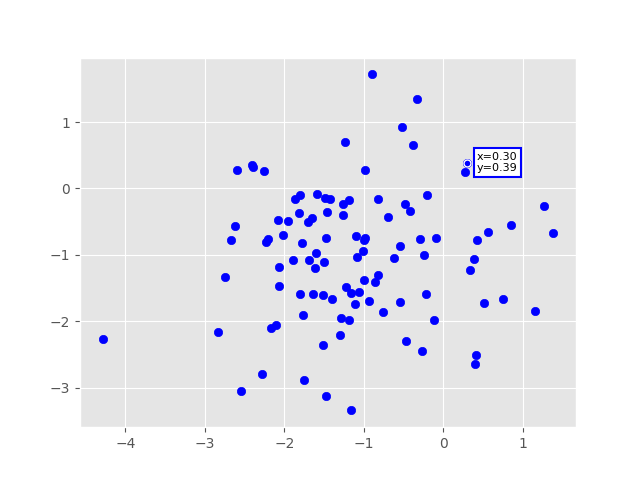
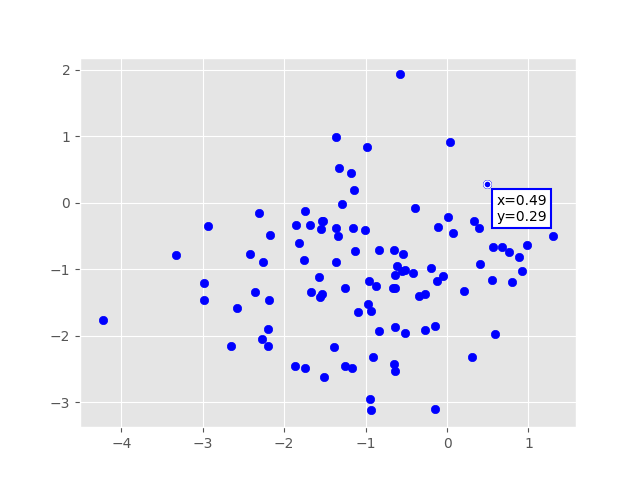
fixed bug with style settings being overwritten. cleaned up readme and examples

diff --git a/mpl_markers/markers.py b/mpl_markers/markers.py
@@ -8,6 +8,7 @@ from matplotlib.collections import QuadMesh, PathCollection
 import itertools
 import json
 from pathlib import Path
+from copy import deepcopy
 
 from . import artists, interactive, utils
 
@@ -17,6 +18,7 @@ __all__ = (
     "axis_marker",
     "scatter_marker",
     "set_style",
+    "set_style_json",
     "clear",
     "remove",
     "disable_lines",
@@ -27,7 +29,7 @@ __all__ = (
     "init_axes",
 )
 
-_global_style_file = Path(__file__).parent / "style/default.json"
+_global_style = dict()
 
 
 def line_marker(
@@ -454,7 +456,7 @@ def scatter_marker(
     return m
 
 
-def set_style(path: Path):
+def set_style_json(path: Path):
     """
     Sets the style globally on all future markers.
 
@@ -463,9 +465,33 @@ def set_style(path: Path):
     path: Path
         path to a .json file that matches the structure of "style/default.json"
     """
-    global _global_style_file
-    _global_style_file = Path(path)
 
+    with open(path) as f:
+        set_style(**json.load(f))
+
+
+def set_style(**properties):
+    """
+    Sets the style globally on all future markers.
+
+    Parameters:
+    -----------
+    ** properties
+        any or all key value pairs found in "style/default.json"
+    """
+    global _global_style
+
+    # start with the default style
+    default_style_path = Path(__file__).parent / "style/default.json"
+    with open(default_style_path) as f:
+        _global_style = json.load(f)
+
+    # overwrite the defaults with the provided properties
+    for k in _global_style.keys():
+        # each property is a dictionary, leave the default prop intact and only overwrite the provided keys
+        if k in properties.keys():
+            for pk in properties[k].keys():
+                _global_style[k][pk] = deepcopy(properties[k][pk])
 
 def clear(axes: plt.Axes = None):
     """
@@ -817,43 +843,18 @@ def init_canvas(fig: plt.Figure, event=None):
 
 def init_axes(
     axes: plt.Axes,
-    style_path: Path = None,
     xformatter: Callable = None,
     yformatter: Callable = None,
-    xline: dict = None,
-    yline: dict = None,
-    datadot: dict = None,
-    axisdot: dict = None,
-    xlabel: dict = None,
-    ylabel: dict = None,
     handler: Callable[[np.ndarray, np.ndarray, Optional[dict]], None] = None,
+    ** properties
 ) -> plt.Axes:
     """
-    Compiles a list of axes lines that will accept marker y-labels and validates the x-axis data of each.
+    Initializes the axes to accept marker objects
 
     Parameters
     ----------
     axes: mpl.Axes
         matplotlib axes object
-    style_path: Path
-        path to a .json file that matches the structure of "style/default.json". Style is
-        applied to markers on this axes only.
-    xline: bool OR dictionary = True
-        shows a vertical line at the x value of the marker. If dictionary, parameters are passed
-        into Line2D.
-    yline: bool OR dictionary = False
-        shows a horizontal line at the y value of the marker. If dictionary, parameters are passed
-        into Line2D.
-    datadot: bool OR dictionary = True
-        shows a dot at the data point of the marker. If dictionary, parameters are passed into Line2D
-    axisdot: bool OR dictionary = True
-        shows a dot at the location of axis markers. If dictionary, parameters are passed into Line2D
-    xlabel: bool OR dictionary = False
-        shows a text box of the x value of the marker at the bottom of the axes. If dictionary, parameters are passed
-        into axes.text()
-    ylabel: bool OR dictionary = True
-        shows a text box of the y value of the marker at the data point location. If dictionary, parameters are passed
-        into axes.text()
     yformatter: Callable = None
         function that returns a string to be placed in the data label given a x and y data coordinate
             def yformatter(x: float, y:float, idx:int) -> str
@@ -866,25 +867,26 @@ def init_axes(
 
         The xd and yd parameter are arrays of x-axis/y-axis data values of each line on the active marker.
         kwargs are the same as the optional kwargs passed into add_handler.
+    ** properties
+        any or all key value pairs found in style/default.json
+
     """
     axes._marker_axes = axes
     axes._secondary_axes = []
 
-    # load the default style sheet
-    if not hasattr(axes, "_marker_style"):
-        # read default style
-        style_path = _global_style_file if style_path is None else style_path
-        with open(style_path) as f:
-            axes._marker_style = json.load(f)
-
     # update the marker styles with the user provided properties
-    for k, prop in zip(
-        ["xline", "yline", "xlabel", "ylabel", "datadot", "axisdot"],
-        [xline, yline, xlabel, ylabel, datadot, axisdot],
-    ):
-        if prop:
-            for n, v in prop.items():
-                axes._marker_style[k][n] = v
+    if not len(_global_style):
+        set_style()
+
+    if not hasattr(axes, "_marker_style"):
+        axes._marker_style = deepcopy(_global_style)
+    
+    # overwrite the defaults with the provided properties
+    for k in _global_style.keys():
+        # each property is a dictionary, leave the default prop intact and only overwrite the provided keys
+        if k in properties.keys():
+            for pk in properties[k].keys():
+                axes._marker_style[k][pk] = deepcopy(properties[k][pk])
 
     if not hasattr(axes, "_marker_ignorelines"):
         axes._marker_ignorelines = []
@@ -924,6 +926,7 @@ def init_axes(
 
     # do not modify the axes if called on a secondary axes, initialize primary axes instead
     axes = axes._marker_axes
+
     # compile list of all lines in this axes and any axes that share the same canvas
     lines_unfiltered = list(axes.lines) + list(
         itertools.chain.from_iterable([ax.lines for ax in axes._secondary_axes])

diff --git a/mpl_markers/utils.py b/mpl_markers/utils.py
@@ -2,6 +2,7 @@ from matplotlib.axes import Axes
 from matplotlib import ticker
 from typing import Tuple, Union, Callable, List
 import numpy as np
+from copy import deepcopy
 
 
 def data2display(axes, point):
@@ -100,13 +101,13 @@ def compile_properties(axes, keys: List[str], props: List[dict]):
     for k, p in zip(keys, props):
         # pull default style if True was passed into this property
         if p is True or p is None:
-            properties[k] = axes._marker_style[k]
+            properties[k] = deepcopy(axes._marker_style[k])
         # override the default with user provided dictionaries
         elif isinstance(p, dict):
-            properties[k] = axes._marker_style[k]
+            properties[k] = deepcopy(axes._marker_style[k])
             # allow partial dictionaries
             for n, v in p.items():
-                properties[k][n] = v
+                properties[k][n] = deepcopy(v)
         # don't add to properties if False was passed in for this property
 
     return properties

diff --git a/examples/scatter_plot.py b/examples/scatter_plot.py
@@ -10,9 +10,18 @@ data_y = np.random.normal(-1, 1, 100)
 fig, ax = plt.subplots(1, 1)
 s = ax.scatter(data_x, data_y, color="b")
 
+mplm.set_style(ylabel=dict(fontsize=10))
+
 # place the marker on the point closest to x=0, y=0.5
 # the collections argument is optional, if not provided the marker is placed on the first
 # collection found on the axes
-mplm.scatter_marker(0, 0.5, collection=s, axes=ax, yformatter=lambda x, y, pos: f"x={x:.2f}\ny={y:.2f}")
+mplm.scatter_marker(
+    0.5, 0.5, 
+    collection=s, 
+    axes=ax, 
+    yformatter=lambda x, y, pos: f"x={x:.2f}\ny={y:.2f}",
+    anchor="upper left"
+)
 
 plt.show()
+

diff --git a/mpl_markers/artists.py b/mpl_markers/artists.py
@@ -1166,7 +1166,7 @@ class ScatterMarker(MarkerArtist):
 
         xdata, ydata = self.collection.get_offsets().data.T
 
-        dist = np.abs(x - xdata) + np.abs(y - ydata)
+        dist = np.sqrt((x - xdata)**2 + np.abs(y - ydata)**2)
         # set position to the data point with the smallest error
         self.set_position_by_index(np.nanargmin(dist))
 

diff --git a/examples/axis_markers.py b/examples/axis_markers.py
@@ -14,7 +14,7 @@ m1 = mplm.axis_marker(
     y=np.min(y1), yformatter="{:.2f}%", ylabel=dict(fontfamily="monospace")
 )
 
-# # create second marker that is referenced from the first marker m1
+# create second marker that is referenced from the first marker m1
 mplm.axis_marker(
     y=np.max(y1),
     ref_marker=m1,

diff --git a/readme.md b/readme.md
@@ -152,22 +152,30 @@ The marker style is controlled by the `mpl_markers/style/default.json` file:
 }
 
 ```
-To use custom styles on a single marker, pass in a dictionary of artist settings that matches the keys in this file. To turn on/off any of the artists, pass in `True/False` instead of a dictionary. 
-For example, this will turn off the box around the data label and add an xlabel artist:
+To use custom styles, pass in a dictionary of artist settings to the `set_style` method. Keys that do not match those found in `default.json` are ignored. Settings are applied globally to all future markers.
 
 ```python
+mplm.set_style(
+    ylabel=dict(fontfamily="monospace", bbox=dict(linewidth=0, facecolor="none"))
+)
+```
+
+To limit the style scope to a specific axes, artist settings can also be passed into `init_axes` as kwargs. Settings can also be passed to individual markers when they are created, and allows for mixed styles on the same axes. 
+
+```python
+# Inherits global settings from the last set_style call.
 mplm.line_marker(
-    x=np.pi/4,             
-    ylabel=dict(fontfamily="monospace", bbox=dict(linewidth=0, facecolor="none")),
-    xlabel=True
+    x=np.pi/4,
+    ylabel=dict(fontsize=11),             
+    xline=False # turn off the xline artist
 )
 ```
 ![example3](https://raw.githubusercontent.com/ricklyon/mpl_markers/main/docs/img/example4.png)
 
-Custom .json files are supported with the `mplm.set_style` method. This will set the style on all future markers and must have the same keys as the default.json file:
+Custom .json files are supported with the `mplm.set_style_json` method. This will set the style on all future markers and must have the same keys as the default.json file:
 
 ```python
-mplm.set_style("user_style.json")
+mplm.set_style_json("set_style_json.json")
 ```
 
 ## License
